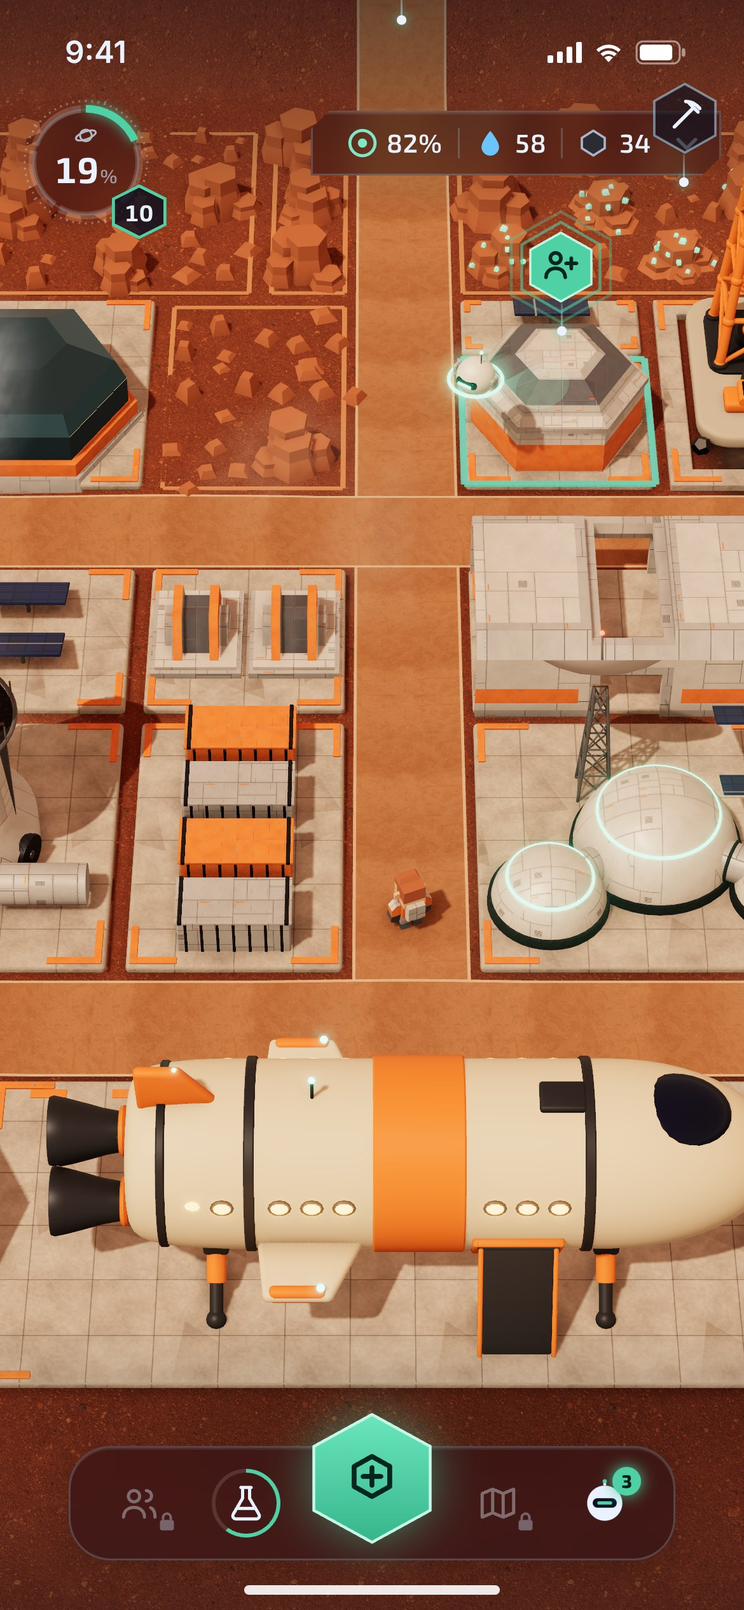
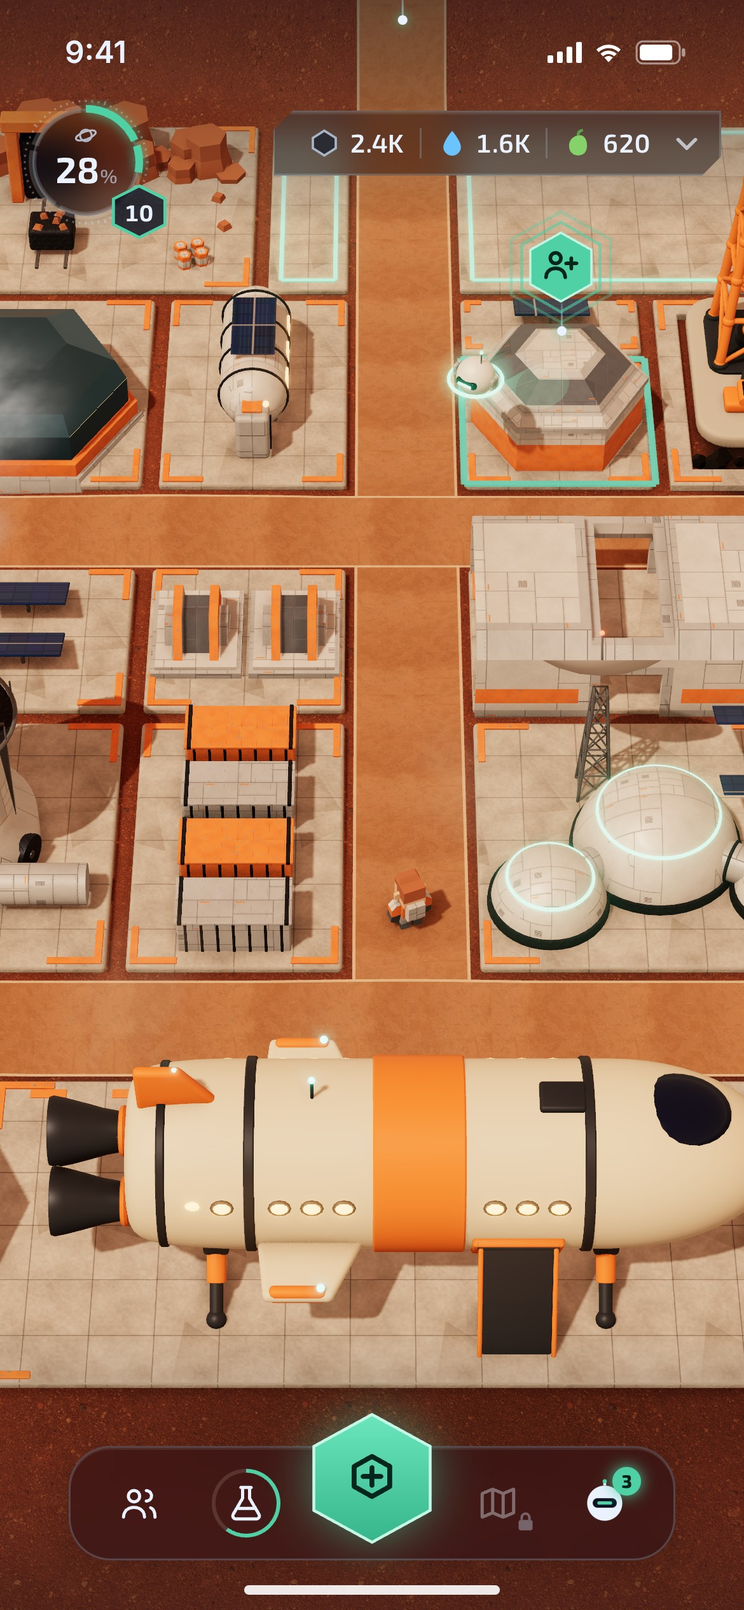
Bring the mockup frames in line with the levels
Cartoon level 3: the quarry becomes a mine (rock hill, timbered tunnel,
rails and a cart of stone). Old mockup frames 01-07 re-rendered with the
HUD in English and level-10 content: atmosphere 28%, mine, kitchen and
silicon furnace instead of rubble, greenhouse in the build menu, one
worker on the drill and upgrades costing time, 7/10 sketches at level 78.
New frames 06 and 07 replace the old ones in the game-flow-concept doc.

Claude-Session: https://claude.ai/code/session_01HQgMkiyb5bvwSnLxV2QWWo

diff --git a/mockup/index.html b/mockup/index.html
@@ -1,5 +1,5 @@
 <!doctype html>
-<html lang="bg">
+<html lang="en">
 <head>
 <meta charset="utf-8">
 <meta name="viewport" content="width=390, initial-scale=1">
@@ -152,8 +152,8 @@ function hud() {
   const a = window.__anchors, st = window.__state, L = st.late, panel = st.panel;
   let h = `<div class="shade"></div>${panel ? '' : '<div class="shade b"></div>'}`;
   h += `<div class="status"><span>9:41</span><span class="r"><svg width="18" height="11" viewBox="0 0 18 11" fill="#fff"><rect x="0" y="7" width="3" height="4" rx=".8"/><rect x="5" y="5" width="3" height="6" rx=".8"/><rect x="10" y="2.5" width="3" height="8.5" rx=".8"/><rect x="15" y="0" width="3" height="11" rx=".8"/></svg><svg width="16" height="11" viewBox="0 0 16 12"><path d="M8 11.5 5.6 9a3.4 3.4 0 0 1 4.8 0zM3.4 6.8a6.6 6.6 0 0 1 9.2 0l-1.4 1.4a4.6 4.6 0 0 0-6.4 0zM1 4.4a10 10 0 0 1 14 0l-1.4 1.4a8 8 0 0 0-11.2 0z" fill="#fff"/></svg><svg width="27" height="13" viewBox="0 0 27 13"><rect x=".7" y=".7" width="22.6" height="11.6" rx="3.4" fill="none" stroke="#fff" stroke-opacity=".5"/><rect x="2.4" y="2.4" width="17" height="8.2" rx="1.8" fill="#fff"/><rect x="24.4" y="4.3" width="1.8" height="4.4" rx=".9" fill="#fff" fill-opacity=".5"/></svg></span></div>`;
-  h += gauge(L ? 90 : 19, L) + levelHex(L ? 78 : 10);
-  const items = L ? [['food', '18.4K'], ['steel', '6.3K'], ['crystal', '412']] : [['o2', '82%'], ['water', '58'], ['carbon', '34']];
+  h += gauge(L ? 90 : 28, L) + levelHex(L ? 78 : 10);
+  const items = L ? [['food', '18.4K'], ['steel', '6.3K'], ['crystal', '412']] : [['carbon', '2.4K'], ['water', '1.6K'], ['food', '620']];
   h += `<div class="res glass cham">${items.map(([k, v]) => `<div class="it">${R[k]}${v}</div>`).join('')}<div class="chev">${I.chev}</div></div>`;
   if (L) h += `<div class="side glass">${I.moon}</div>`;
   if (!panel) {
@@ -161,64 +161,67 @@ function hud() {
       h += pinAt(a.drill, hexPin(R.carbon));
       h += pinAt(a.water, hexPin(R.water));
       h += pinAt(a.hab, hexPin(R.wake, { fill: '#4fd1a5', stroke: '#bff5e2', glow: true }));
-      h += pinAt(a.zone, hexPin(I.lock.replace('width="11" height="11"', 'width="14" height="14"')), '20%');
-      h += pinAt(a.rubble, hexPin(S('<path d="M14.5 4.5l5 5M17 7 6 18"/><path d="M12.5 3.5c3 0 6 1.5 8 4"/>', '#eaf2ff', 2)));
+      h += pinAt(a.zone, hexPin(I.lock.replace('width="11" height="11"', 'width="14" height="14"')), 'RESEARCH');
       h += pinAt(a.empty, hexPin(S('<path d="M12 6v12M6 12h12"/>', '#4fd1a5', 2.4), { stroke: 'rgba(79,209,165,.85)' }));
     } else {
-      h += pinAt(a.ship, `<div style="position:relative;width:40px;height:40px;display:grid;place-items:center"><svg width="40" height="40" viewBox="0 0 40 40" style="position:absolute"><circle cx="20" cy="20" r="18" fill="rgba(8,14,30,.62)" stroke="rgba(170,225,255,.3)" stroke-width="1"/><circle cx="20" cy="20" r="15" fill="none" stroke="rgba(255,255,255,.15)" stroke-width="3"/><circle cx="20" cy="20" r="15" fill="none" stroke="#4fd1a5" stroke-width="3" stroke-dasharray="${0.8 * 94.2} 94.2" transform="rotate(-90 20 20)"/></svg><div style="position:relative">${R.ship}</div></div>`, '8/10');
+      h += pinAt(a.ship, `<div style="position:relative;width:40px;height:40px;display:grid;place-items:center"><svg width="40" height="40" viewBox="0 0 40 40" style="position:absolute"><circle cx="20" cy="20" r="18" fill="rgba(8,14,30,.62)" stroke="rgba(170,225,255,.3)" stroke-width="1"/><circle cx="20" cy="20" r="15" fill="none" stroke="rgba(255,255,255,.15)" stroke-width="3"/><circle cx="20" cy="20" r="15" fill="none" stroke="#4fd1a5" stroke-width="3" stroke-dasharray="${0.8 * 94.2} 94.2" transform="rotate(-90 20 20)"/></svg><div style="position:relative">${R.ship}</div></div>`, '7/10');
       h += pinAt(a.capsule, hexPin(R.chute, { glow: true }));
       h += pinAt(a.shuttle, hexPin(R.crystal));
       h += pinAt(a.field, hexPin(R.food));
     }
     const dockB = (ico, cls = '', extra = '') => `<div class="b ${cls}">${ico}${extra}</div>`;
-    h += `<div class="dock glass">${dockB(I.people, L ? '' : 'off', L ? '' : `<span class="lock">${I.lock}</span>`)}${dockB(`<svg width="44" height="44" viewBox="0 0 44 44" style="position:absolute"><circle cx="22" cy="22" r="17" fill="none" stroke="rgba(255,255,255,.12)" stroke-width="2"/><circle cx="22" cy="22" r="17" fill="none" stroke="#4fd1a5" stroke-width="2" stroke-dasharray="${0.6 * 106.8} 106.8" transform="rotate(-90 22 22)"/></svg>` + I.research)}<div class="build"><svg class="bg" width="64" height="70" viewBox="0 0 64 70"><defs><linearGradient id="bg1" x1="0" y1="0" x2="0" y2="1"><stop offset="0" stop-color="#6be6bd"/><stop offset="1" stop-color="#36b58b"/></linearGradient></defs><path d="${hexPath(64, 70, 1.5)}" fill="url(#bg1)" stroke="#c6f7e6" stroke-width="1.5"/></svg><div style="position:relative">${I.build.replace('width="22" height="22"', 'width="28" height="28"')}</div></div>${dockB(I.map, L ? '' : 'off', L ? '' : `<span class="lock">${I.lock}</span>`)}${dockB(I.echo, '', '<span class="dot">3</span>')}</div>`;
+    h += `<div class="dock glass">${dockB(I.people)}${dockB(`<svg width="44" height="44" viewBox="0 0 44 44" style="position:absolute"><circle cx="22" cy="22" r="17" fill="none" stroke="rgba(255,255,255,.12)" stroke-width="2"/><circle cx="22" cy="22" r="17" fill="none" stroke="#4fd1a5" stroke-width="2" stroke-dasharray="${0.6 * 106.8} 106.8" transform="rotate(-90 22 22)"/></svg>` + I.research)}<div class="build"><svg class="bg" width="64" height="70" viewBox="0 0 64 70"><defs><linearGradient id="bg1" x1="0" y1="0" x2="0" y2="1"><stop offset="0" stop-color="#6be6bd"/><stop offset="1" stop-color="#36b58b"/></linearGradient></defs><path d="${hexPath(64, 70, 1.5)}" fill="url(#bg1)" stroke="#c6f7e6" stroke-width="1.5"/></svg><div style="position:relative">${I.build.replace('width="22" height="22"', 'width="28" height="28"')}</div></div>${dockB(I.map, L ? '' : 'off', L ? '' : `<span class="lock">${I.lock}</span>`)}${dockB(I.echo, '', '<span class="dot">3</span>')}</div>`;
   } else if (st.place) {
-    // a building chosen: its spot glows, ЕХО points at it, one tap confirms
-    h += `<div class="hint glass cham">${S('<path d="M12 21s-6-5.6-6-10a6 6 0 0 1 12 0c0 4.4-6 10-6 10z"/><circle cx="12" cy="11" r="2.2"/>', '#4fd1a5', 2)}Натиснете <b>светещото място</b></div>`;
+    // a building chosen: its spot glows, ECHO points at it, one tap confirms
+    h += `<div class="hint glass cham">${S('<path d="M12 21s-6-5.6-6-10a6 6 0 0 1 12 0c0 4.4-6 10-6 10z"/><circle cx="12" cy="11" r="2.2"/>', '#4fd1a5', 2)}Tap the <b>glowing spot</b></div>`;
     const bx = Math.min(Math.max(a.place.x, 104), 390 - 104);
-    h += `<div class="bubble" style="left:${bx.toFixed(1)}px;top:${a.place.y.toFixed(1)}px;--tx:${(a.place.x - bx + 88).toFixed(1)}px"><div class="who">ЕХО</div>Тук е мястото за модула. Натиснете го.</div>`;
-    h += `<div class="placebar"><div class="row">${hexPin(S('<path d="M4 18V11a8 8 0 0 1 16 0v7z"/><path d="M10 18v-4h4v4"/><path d="M4 18h16"/>'), { w: 44, h: 48, fill: 'rgba(79,209,165,.25)', stroke: '#4fd1a5' })}<div><h4>Жилищен модул</h4><p>2×2 · 5 места · строи се за 0:45</p></div></div>
-      <div class="btns"><div class="cancel">Отказ</div><div class="go"><b>СТРОЙ ТУК</b><div class="cost"><span>${R.carbon}30</span><span>${R.stone}20</span></div></div></div></div>`;
+    h += `<div class="bubble" style="left:${bx.toFixed(1)}px;top:${a.place.y.toFixed(1)}px;--tx:${(a.place.x - bx + 88).toFixed(1)}px"><div class="who">ECHO</div>This is the spot for the greenhouse. Tap it.</div>`;
+    h += `<div class="placebar"><div class="row">${hexPin(S('<path d="M3 18a9 9 0 0 1 18 0z"/><path d="M12 9v9M7.5 11.5 9 18M16.5 11.5 15 18"/>'), { w: 44, h: 48, fill: 'rgba(79,209,165,.25)', stroke: '#4fd1a5' })}<div><h4>Greenhouse</h4><p>3×2 · food and atmosphere · builds in 2:00</p></div></div>
+      <div class="btns"><div class="cancel">Cancel</div><div class="go"><b>BUILD HERE</b><div class="cost"><span>${R.carbon}900</span><span>${R.stone}400</span></div></div></div></div>`;
   } else if (st.build) {
-    // tapped: an empty 2x3 plot, the build menu lists what fits and what comes later
+    // the Build button: the menu lists what can be built at level 10 and what comes later
     const small = s => s.replace('width="16" height="16"', 'width="13" height="13"');
     const B = {
       hab: S('<path d="M4 18V11a8 8 0 0 1 16 0v7z"/><path d="M10 18v-4h4v4"/><path d="M4 18h16"/>'),
       store: S('<path d="M4 8l8-4 8 4v9l-8 4-8-4z"/><path d="M4 8l8 4 8-4M12 12v9"/>'),
       plant: S('<path d="M12 20V10"/><path d="M12 13c-4 0-6-3-6-7 4 0 6 3 6 7zM12 11c0-4 2-6 6-6 0 4-2 6-6 6z"/>'),
       air: S('<path d="M4 9h11a3 3 0 1 0-3-3M4 13h14a3 3 0 1 1-3 3M4 17h7"/>'),
-      quarry: S('<path d="M3 19l5-9 4 5 3-4 6 8z"/><path d="M14 4l2 3"/>'),
+      green: S('<path d="M3 18a9 9 0 0 1 18 0z"/><path d="M12 9v9M7.5 11.5 9 18M16.5 11.5 15 18"/>'),
+      batt: S('<rect x="4" y="7" width="15" height="10" rx="1.5"/><path d="M19 10.5h1.5v3H19M8 10v4M11 10v4"/>'),
+      animal: S('<circle cx="7" cy="9" r="1.8"/><circle cx="12" cy="6.5" r="1.8"/><circle cx="17" cy="9" r="1.8"/><path d="M12 12c-3 0-5 3-5 5 0 1.6 1.6 2 5 2s5-.4 5-2c0-2-2-5-5-5z"/>'),
+      wind: S('<path d="M12 12v9M12 12l-1-8M12 12l7 4M12 12l-7 4"/><circle cx="12" cy="12" r="1.2"/>'),
+      shuttle: S('<path d="M12 3c3 3 4 7 4 11l-4 3-4-3c0-4 1-8 4-11z"/><path d="M8 14l-3 3v2l3-1M16 14l3 3v2l-3-1"/>'),
       solar: S('<path d="M4 9h16l-2 8H6z"/><path d="M9 9l-1 8M15 9l1 8M5 13h14"/><path d="M12 17v3"/>'),
     };
     const card = (ico, name, size, body, opts = {}) => `<div class="card ${opts.sel ? 'sel' : ''} ${opts.dim ? 'dim' : ''}">${opts.tag ? `<span class="tag">${opts.tag}</span>` : ''}<div class="ic"><svg class="bg" width="38" height="42" viewBox="0 0 38 42"><path d="${hexPath(38, 42, 1.2)}" fill="${opts.sel ? 'rgba(79,209,165,.25)' : 'rgba(8,14,30,.5)'}" stroke="${opts.sel ? '#4fd1a5' : 'rgba(170,225,255,.45)'}" stroke-width="1.2"/></svg><div style="position:relative">${ico}</div></div><div><h4>${name}</h4><span class="sz">${size}</span>${body}</div></div>`;
     const cost = (c, s, t) => `<div class="meta"><span>${small(R.carbon)}${c}</span><span>${small(R.stone)}${s}</span><span style="color:var(--muted)">${t}</span></div>`;
     const note = t => `<div class="note">${t}</div>`;
     h += `<div class="sheet tall"><div class="grab"></div>
-      <div class="sh-head">${hexPin(S('<path d="M12 6v12M6 12h12"/>', '#4fd1a5', 2.4), { w: 44, h: 48, stroke: 'rgba(79,209,165,.85)' })}<div><h3>Строеж</h3><p>Изберете сграда · ЕХО ще покаже мястото ѝ</p></div><div class="x">${I.close}</div></div>
-      <div class="tabs"><span class="on">Всички</span><span>Добив</span><span>Живот</span><span>Домове</span><span>Енергия</span></div>
+      <div class="sh-head">${hexPin(S('<path d="M12 6v12M6 12h12"/>', '#4fd1a5', 2.4), { w: 44, h: 48, stroke: 'rgba(79,209,165,.85)' })}<div><h3>Build</h3><p>Pick a building · ECHO shows its spot</p></div><div class="x">${I.close}</div></div>
+      <div class="tabs"><span class="on">All</span><span>Mining</span><span>Life</span><span>Homes</span><span>Energy</span></div>
       <div class="cards">
-        ${card(B.hab, 'Жилищен модул', '2×2', cost(30, 20, '0:45'), { sel: true, tag: 'ЕХО' })}
-        ${card(B.store, 'Склад', '3×2', cost(20, 30, '0:30'))}
-        ${card(B.plant, 'Лаборатория за растения', '3×2', note(`${I.lock} от атм. 20%`), { dim: true })}
-        ${card(B.solar, 'Слънчеви панели', '2×1', note(`${I.lock} в глава 2`), { dim: true })}
-        ${card(B.air, 'Атмосферен процесор', '3×3', note('Няма място 3×3'), { dim: true })}
-        ${card(B.quarry, 'Кариера', '3×2', note('Мястото е под отломки'), { dim: true })}
+        ${card(B.green, 'Greenhouse', '3×2', cost('900', '400', '2:00'), { sel: true, tag: 'ECHO' })}
+        ${card(B.solar, 'Solar panels', '2×1', note('60 silicon · 120 carbon · 0:40'))}
+        ${card(B.batt, 'Battery bank', '2×1', note('40 silicon · 80 carbon · 0:50'))}
+        ${card(B.animal, 'Animal lab', '3×3', note(`${I.lock} chapter 4`), { dim: true })}
+        ${card(B.wind, 'Wind turbine', '1×1', note(`${I.lock} chapter 5`), { dim: true })}
+        ${card(B.shuttle, 'Shuttle pad', '3×3', note(`${I.lock} level 60`), { dim: true })}
       </div>
-      <div class="up"><div class="go"><b>КЪМ МЯСТОТО</b><div class="cost"><span>${R.carbon}30</span><span>${R.stone}20</span></div></div></div>
+      <div class="up"><div class="go"><b>TO THE SPOT</b><div class="cost"><span>${R.carbon}900</span><span>${R.stone}400</span></div></div></div>
     </div>`;
   } else {
     // tapped: the carbon drill
     const seg = n => Array.from({ length: 10 }, (_, i) => `<i class="${i < n ? 'on' : ''}"></i>`).join('');
     const slot = (inner, locked) => `<div class="slot"><svg width="46" height="50" viewBox="0 0 46 50" style="position:absolute"><path d="${hexPath(46, 50, 1.5)}" fill="rgba(255,255,255,.04)" stroke="rgba(170,225,255,.4)" stroke-width="1.2" stroke-dasharray="4 3"/></svg><div style="position:relative;opacity:${locked ? .5 : 1}">${inner}</div></div>`;
     h += `<div class="sheet"><div class="grab"></div>
-      <div class="sh-head">${hexPin(R.carbon.replace('width="16" height="16"', 'width="20" height="20"'), { w: 44, h: 48 })}<div><h3>Карбонова сонда</h3><p>Ниво 12 · Дъното на каньона</p></div><div class="x">${I.close}</div></div>
+      <div class="sh-head">${hexPin(R.carbon.replace('width="16" height="16"', 'width="20" height="20"'), { w: 44, h: 48 })}<div><h3>Carbon drill</h3><p>Level 10 · Canyon floor</p></div><div class="x">${I.close}</div></div>
       <div class="stats">
-        <div class="stat"><div class="k">Добив</div><div class="v">18<span style="font-size:12px;color:var(--muted);font-weight:600">/мин</span><em>+2</em></div><div class="bar"><i style="width:60%"></i></div></div>
-        <div class="stat"><div class="k">Склад</div><div class="v">34<span style="font-size:12px;color:var(--muted);font-weight:600"> /120</span></div><div class="bar"><i style="width:28%"></i></div></div>
-        <div class="stat"><div class="k">Скок ×2</div><div class="v">8<span style="font-size:12px;color:var(--muted);font-weight:600"> нива</span></div><div class="segs">${seg(2)}</div></div>
+        <div class="stat"><div class="k">Output</div><div class="v">18<span style="font-size:12px;color:var(--muted);font-weight:600">/min</span><em>+2</em></div><div class="bar"><i style="width:60%"></i></div></div>
+        <div class="stat"><div class="k">Ready</div><div class="v">34<span style="font-size:12px;color:var(--muted);font-weight:600"> /120</span></div><div class="bar"><i style="width:28%"></i></div></div>
+        <div class="stat"><div class="k">Worker</div><div class="v">1<span style="font-size:12px;color:var(--muted);font-weight:600"> /1</span></div><div class="bar"><i style="width:100%"></i></div></div>
       </div>
-      <div class="crew">${slot(I.people, true)}${slot(I.people, true)}${slot(`<svg width="22" height="22" viewBox="0 0 24 24" fill="none" stroke="#eaf2ff" stroke-width="1.8"><path d="M4 20l6-14 4 7 2-3 4 10z"/></svg>`, true)}<p>Работници и геолог<br>от глава 2</p></div>
-      <div class="up"><div class="mult"><span class="on">×1</span><span>×10</span><span>MAX</span></div><div class="go"><b>ПОДОБРИ</b><div class="cost"><span>${R.carbon}40</span><span>${R.stone}12</span></div></div></div>
+      <div class="crew">${slot(I.people, false)}<p>The worker collects the carbon<br>and keeps the drill running while you're away</p></div>
+      <div class="up"><div class="mult"><span class="on">${S('<circle cx="12" cy="12" r="8"/><path d="M12 8v4l3 2"/>', '#eaf2ff', 2).replace('width="22" height="22"', 'width="15" height="15"')}&nbsp;12:00</span></div><div class="go"><b>UPGRADE</b><div class="cost"><span>${R.carbon}1.2K</span><span>${R.stone}400</span></div></div></div>
     </div>`;
   }
   if (!panel) h += '<div class="home"></div>'; else h += '<div class="home" style="z-index:2"></div>';

diff --git a/mockup/src/cartoon.js b/mockup/src/cartoon.js
@@ -90,7 +90,7 @@ const P = {
   ark: R(-12, 9, 23, 13.5), cargo: R(10.5, 16.5, 23, 13.5),
   pump: cell(0, 0), proc: cell(1, 0), drill: cell(2, 0),
   research: cell(0, 1), geo: cell(1, 1), veg: cell(2, 1),
-  dome: cell(0, 2), kitchen: cell(1, 2), quarry: cell(2, 2),
+  dome: cell(0, 2), kitchen: cell(1, 2), mine: cell(2, 2),
 };
 const padMat = flat(C.pad), edgeMat = flat(C.padEdge);
 function pad(r, kind = 'built') {
@@ -146,15 +146,24 @@ function kitchen() {
   for (const z of [2.2, 3.5]) { g.add(at(rb(3.6, 0.15, 0.8, M.wood, 0.06), -0.6, 0.95, z)); for (const s of [-0.55, 0.55]) g.add(at(rb(3.6, 0.12, 0.3, M.wood, 0.05), -0.6, 0.55, z + s)); }
   return shadowAll(g);
 }
-function quarry() {
+function mine() {
+  // the mine: a rock hill with a timbered tunnel, rails and a cart of stone (level 2: one worker, stone only)
   const g = new THREE.Group();
-  for (let i = 0; i < 6; i++) { const m = new THREE.Mesh(rockGeo, flat(i % 2 ? C.rock : C.rock2)); const s = 1.1 + rnd() * 0.8; m.scale.set(s, s * 0.8, s); m.position.set(1.6 + rnd() * 2.2, s * 0.4, -2.2 + rnd() * 2.5); m.castShadow = true; g.add(m); }
-  for (let i = 0; i < 6; i++) g.add(at(rb(0.9, 0.7, 0.9, flat(0xd9b892), 0.15), -2.6 + (i % 3) * 1.0, 0.65 + Math.floor(i / 3) * 0.72, 2.0));
-  g.add(at(rb(2.0, 1.6, 1.8, M.hull, 0.35), -2.2, 1.1, -1.4));
-  const mast = new THREE.Mesh(new THREE.CylinderGeometry(0.16, 0.2, 4.2, 12), M.orange); mast.position.set(-0.6, 2.4, -0.4); g.add(mast);
-  const arm = rb(4.4, 0.28, 0.28, M.orange, 0.1); arm.position.set(1.0, 4.4, -0.4); arm.rotation.z = -0.25; g.add(arm);
-  const hook = new THREE.Mesh(new THREE.CylinderGeometry(0.03, 0.03, 1.8, 6), M.metal); hook.position.set(2.9, 3.0, -0.4); g.add(hook);
-  g.add(at(rb(0.7, 0.5, 0.7, flat(0xd9b892), 0.12), 2.9, 1.95, -0.4));
+  const hill = [[-3.0, -3.0, 2.1], [-1.0, -3.4, 2.5], [1.4, -3.3, 2.3], [3.3, -2.6, 1.8], [-3.9, -1.4, 1.3], [0.4, -4.2, 1.9], [3.8, -0.9, 1.2]];
+  for (const [x, z, s] of hill) { const m = new THREE.Mesh(rockGeo, flat(rnd() < 0.5 ? C.rock : C.rock2)); m.scale.set(s * 1.15, s * 0.85, s); m.position.set(x, s * 0.55, z); m.rotation.y = rnd() * 6; g.add(m); }
+  const px = -0.8, pz = -0.7;
+  g.add(at(rb(1.9, 2.1, 1.2, flat(0x3a2a33), 0.25), px, 1.05, pz));
+  for (const dx of [-1.15, 1.15]) g.add(at(rb(0.34, 2.5, 0.4, M.wood, 0.08), px + dx, 1.25, pz + 0.55));
+  g.add(at(rb(2.8, 0.36, 0.5, M.wood, 0.08), px, 2.6, pz + 0.55));
+  g.add(at(rb(2.9, 0.16, 0.6, M.orange, 0.06), px, 2.86, pz + 0.55));
+  const lamp = new THREE.Mesh(new THREE.SphereGeometry(0.2, 12, 10), M.warm); lamp.position.set(px, 2.25, pz + 0.85); g.add(lamp);
+  for (const dx of [-0.42, 0.42]) g.add(at(rb(0.1, 0.1, 2.8, M.steel, 0.03), px + dx, 0.16, pz + 2.0));
+  for (let i = 0; i < 5; i++) g.add(at(rb(1.25, 0.1, 0.24, M.wood, 0.03), px, 0.08, pz + 0.8 + i * 0.62));
+  const cz = pz + 2.2;
+  g.add(at(rb(1.3, 0.75, 1.0, M.orange, 0.14), px, 0.72, cz));
+  for (const dx of [-0.5, 0.5]) for (const dz of [-0.32, 0.32]) { const w = new THREE.Mesh(new THREE.CylinderGeometry(0.2, 0.2, 0.14, 14), M.rubber); w.rotation.z = Math.PI / 2; w.position.set(px + dx, 0.3, cz + dz); g.add(w); }
+  for (const [dx, dz, s] of [[-0.28, -0.12, 0.34], [0.22, 0.1, 0.3], [0.02, -0.02, 0.38]]) { const r = new THREE.Mesh(rockGeo, flat(0xd9b892)); r.scale.setScalar(s); r.position.set(px + dx, 1.18, cz + dz); g.add(r); }
+  for (let i = 0; i < 6; i++) g.add(at(rb(0.9, 0.7, 0.9, flat(0xd9b892), 0.15), 1.4 + (i % 3) * 1.0, 0.4 + Math.floor(i / 3) * 0.72, 1.2));
   return shadowAll(g);
 }
 function homeDome() {
@@ -209,7 +218,7 @@ if (!L3) {
   add(shadowAll(K.echoBot()), P.research.cx + 4.6, 5.4, P.research.cz + 3.0, 0.8, 1.25);
   halo(P.research.cx + 4.6, 5.4, P.research.cz + 3.0, 2.6, 0x6ff2c4, 0.45);
   // the future spots of level 2 and 3 are only outlined; the rest of the canyon is under dust
-  for (const k of ['dome', 'kitchen', 'quarry']) pad(P[k], 'future');
+  for (const k of ['dome', 'kitchen', 'mine']) pad(P[k], 'future');
   add(shadowAll(K.astronaut(1.7)), -1.5, 0.4, 12.2, 0.4);
   A('rubble', P.research.cx, 3.2, P.research.cz); A('echo', P.research.cx + 4.6, 6.6, P.research.cz + 3.0);
 } else {
@@ -219,7 +228,7 @@ if (!L3) {
   halo(P.dome.cx, 2, P.dome.cz, 9, 0xffd58a, 0.22);
   pad(P.kitchen); add(kitchen(), P.kitchen.cx + 0.4, 0.4, P.kitchen.cz, 0, 1.0);
   dust(P.kitchen.cx + 1.4, 6.8, P.kitchen.cz - 2.0, 3, 0xffffff, 0.6); dust(P.kitchen.cx + 1.8, 8.2, P.kitchen.cz - 2.6, 4.2, 0xffffff, 0.35);
-  pad(P.quarry); add(quarry(), P.quarry.cx, 0.4, P.quarry.cz, 0, 1.0);
+  pad(P.mine); add(mine(), P.mine.cx, 0.4, P.mine.cz, 0, 1.0);
   // workers by their buildings, the cook at the kitchen door, the Commander by the Ark
   const suits = [0x6fb7ff, 0x9a7cff, 0x33c5a2];
   add(colonist(0xffffff, suits[0]), P.drill.cx - 3.6, 0.4, P.drill.cz + 3.4, 0.6, 1.6);
@@ -232,7 +241,7 @@ if (!L3) {
   halo(P.proc.cx - 3.6, 6.2, P.proc.cz + 3.4, 2.6, 0x6ff2c4, 0.45);
   const ring = new THREE.Mesh(new THREE.TorusGeometry(5.0, 0.16, 10, 64), glow(0x33d1a8, 1.4)); ring.rotation.x = Math.PI / 2; ring.position.set(P.proc.cx, 0.55, P.proc.cz); scene.add(ring);
   A('w-drill', P.drill.cx, 7.4, P.drill.cz); A('w-pump', P.pump.cx, 5.6, P.pump.cz); A('w-veg', P.veg.cx, 4.4, P.veg.cz);
-  A('w-proc', P.proc.cx, 9.6, P.proc.cz); A('w-quarry', P.quarry.cx, 6.2, P.quarry.cz); A('cook', P.kitchen.cx, 6.4, P.kitchen.cz);
+  A('w-proc', P.proc.cx, 9.6, P.proc.cz); A('w-mine', P.mine.cx, 6.2, P.mine.cz); A('cook', P.kitchen.cx, 6.4, P.kitchen.cz);
   A('dome', P.dome.cx + 2.4, 4.2, P.dome.cz + 2.6); A('echo', P.proc.cx - 3.6, 7.4, P.proc.cz + 3.4);
 }
 // the locked part of the canyon lies under dust in both levels

diff --git a/mockup/src/main.js b/mockup/src/main.js
@@ -219,9 +219,24 @@ function zone1(late) {
   pad(L.drill, 'deposit'); at(smoothModel('carbon-drill-v1'), L.drill, 1.1, 0, 0, -0.9);
   pad(L.hab); at(kit('hangar_roundB', 1.7), L.hab, 1, Math.PI);
   solarArray(L.solarC);
-  if (!late) { pad(L.free, 'empty'); L.rub5.crystals = true; for (const k of ['rub1', 'rub2', 'rub3', 'rub4', 'rub5']) pad(L[k], 'rubble'); }
+  // level 10 by docs/levels.md: no rubble left; the silicon furnace, the common kitchen and the mine stand on the old rubble plots
+  if (!late) { pad(L.free, 'empty'); pad(L.rub4, 'empty'); pad(L.rub5, 'empty'); pad(L.rub1); at(K.smelter(), L.rub1, 0.78, Math.PI); pad(L.rub2); at(K.habModule(1), L.rub2, 1, Math.PI / 2); mine(L.rub3); }
   else { houses(L.free); houses(L.rub1); houses(L.rub2); houses(L.rub3); pad(L.rub4); houses(L.rub5); }
   return L;
+}
+function mine(r) {
+  // the mine: a rock hill with a timbered tunnel, rails and a cart of stone
+  pad(r);
+  const y = Wd.gy(r.cx, r.cz) + 0.3, dark = new THREE.MeshStandardMaterial({ color: 0x1d1820, roughness: 0.9 });
+  for (const [dx, dz, n, sc] of [[-3.6, -2.4, 'rock_largeA', 3.4], [-1.2, -2.9, 'rock_largeB', 3.8], [1.6, -2.7, 'rock_largeA', 3.6], [4.0, -2.1, 'rock_largeB', 3.0], [-4.7, -0.3, 'rocks_smallA', 2.6], [4.7, 0.3, 'rocks_smallB', 2.6]]) put(kit(n, sc), r.cx + dx, r.cz + dz, T.rng() * 6.28);
+  const px = r.cx - 0.6, pz = r.cz - 0.9;
+  K.rbox(scene, 2.2, 2.4, 1.4, dark, px, y + 1.2, pz, { r: 0.2 });
+  for (const dx of [-1.3, 1.3]) K.rbox(scene, 0.4, 2.9, 0.45, K.M.orange, px + dx, y + 1.45, pz + 0.6, { r: 0.06 });
+  K.rbox(scene, 3.2, 0.45, 0.6, K.M.orange, px, y + 3.0, pz + 0.6, { r: 0.06 });
+  for (const dx of [-0.45, 0.45]) K.rbox(scene, 0.12, 0.12, 3.6, K.M.steel, px + dx, y + 0.08, pz + 2.4, { r: 0.03 });
+  K.rbox(scene, 1.4, 0.8, 1.1, K.M.metal, px, y + 0.6, pz + 3.0, { r: 0.12 });
+  put(kit('rocks_smallA', 1.2), px, pz + 3.0, 0, 1, y + 1.0);
+  put(kit('barrels', 2.2), r.cx + 3.8, r.cz + 2.8, 0.3);
 }
 function zoneStreets(late) {
   // avenue up the middle from the Ark to the shipyard, cross streets between the blocks
@@ -249,10 +264,10 @@ function buildEarly() {
   else if (BUILD) beam.visible = false;
   else if (PLACE) {
     selectFrame(L.free);
-    // the chosen building stands on its spot as a see-through ghost until "Строй тук"
+    // the chosen building (the greenhouse) stands on its spot as a see-through ghost until "Build here"
     const ghostMat = new THREE.MeshStandardMaterial({ color: 0x4fd1a5, emissive: 0x4fd1a5, emissiveIntensity: 0.9, transparent: true, opacity: 0.6, depthWrite: false });
-    const ghost = kit('hangar_roundB', 1.7); ghost.traverse(o => { if (o.isMesh) { o.material = ghostMat; o.castShadow = false; } });
-    at(ghost, L.free, 1, Math.PI);
+    const ghost = K.greenhouse(7); ghost.traverse(o => { if (o.isMesh) { o.material = ghostMat; o.castShadow = false; } });
+    at(ghost, L.free, 1, Math.PI / 2);
     halo(L.free.cx, Wd.gy(0, L.free.cz) + 1.2, L.free.cz, 9, 0x6ff2c4, 0.35);
   } else selectFrame(L.hab);
   P('place', L.free.cx, Wd.gy(0, L.free.cz) + 6.5, L.free.cz);

diff --git a/mockup/cartoon.html b/mockup/cartoon.html
@@ -112,7 +112,7 @@ function hud() {
     h += bubble(a.echo, 'Something is buried here. Tap the rubble!');
   } else {
     for (const k of ['w-drill', 'w-pump', 'w-veg']) h += badge(a[k], `${ICON.person()}<span class="ok">${ICON.check}</span>`);
-    h += badge(a['w-quarry'], ICON.plus, '', 'empty');
+    h += badge(a['w-mine'], ICON.plus, '', 'empty');
     h += badge(a['w-proc'], ICON.plus, 'free slot', 'empty');
     h += badge(a.cook, ICON.chef, 'cook');
     h += badge(a.dome, ICON.bed, '4/4 beds');

diff --git a/mockup/README.md b/mockup/README.md
@@ -6,17 +6,17 @@
 
 | Файл | Какво показва |
 | --- | --- |
-| `01-nivo-10.jpg` | Ниво 10, глава 1, атмосфера 19%: първите сгради около Ковчега, свободен парцел, отломки, следващата зона под прах |
+| `01-nivo-10.jpg` | Ниво 10, глава 1, атмосфера 28%: сградите около Ковчега, жилищният купол с ново легло (колонист за събуждане), мината, кухнята и силициевата пещ, празни парцели, следващата зона под прах (отваря се с рисърч) |
 | `02-nivo-10-otblizo.jpg` | Същото, приближено |
-| `03-natisnata-sonda.jpg` | Натисната карбонова сонда: панелът, който се отваря отдолу |
-| `04-atmosfera-90.jpg` | Атмосфера 90%, глава 8: град, ферми, совалка, корабостроителница |
+| `03-natisnata-sonda.jpg` | Натисната карбонова сонда, ниво 10: добив, готово за прибиране, един работник; подобрението струва ресурси и време |
+| `04-atmosfera-90.jpg` | Атмосфера 90%, ниво 78, глава 8: град, ферми, совалка, корабостроителница, 7 от 10 скици |
 | `05-atmosfera-90-otblizo.jpg` | Същото, приближено |
-| `06-stroezh-menu.jpg` | Ниво 10: натиснат бутонът „Строй“, отворено е менюто за строеж; фабрикатор няма (решено на 02.11.2026) |
-| `07-izbor-na-miasto.jpg` | Избран е Жилищен модул: мястото му свети с прозрачната сграда, ЕХО го посочва, долу „Строй тук“ |
-| `cartoon-01-nivo-1.jpg` | Новата приятелска визия (cartoon.html), с текстове на английски: ниво 1, обучение; ECHO показва затрупаната рисърч сграда |
-| `cartoon-02-nivo-3.jpg` | Новата визия: ниво 3, куполът с 4 легла, общата кухня с готвач, работниците и празно място при процесора |
+| `06-stroezh-menu.jpg` | Ниво 10: натиснат бутонът „Строй“; оранжерията, панелите и батериите се строят, лабораторията за животни, вятърната турбина и площадката за совалката са заключени |
+| `07-izbor-na-miasto.jpg` | Избрана е оранжерията: мястото ѝ свети с прозрачната сграда, ECHO го посочва, долу „Build here“ |
+| `cartoon-01-nivo-1.jpg` | Новата приятелска визия (cartoon.html): ниво 1, обучение; ECHO показва затрупаната рисърч сграда |
+| `cartoon-02-nivo-3.jpg` | Новата визия: ниво 3, куполът с 4 легла, общата кухня с готвач, мината, работниците и празно място при процесора |
 
-Кадрите 01–07 са направени преди docs/levels.md (03.11.2026) и в някои неща се разминават с него: по нивата атмосферата на ниво 10 е около 28%, а не 19%; сградата за колонистите е жилищният купол, не „Жилищен модул“; кариерата е мината. Кадър `cartoon-02-nivo-3.jpg` още показва модела на кариера на мястото на мината. При разлика важат нивата.
+Всички кадри следват docs/levels.md (обновени на 03.11.2026), а текстовете в тях са на английски. Числата за ресурсите, цените и времената са примерни. Атмосферата 90% на ниво 78 зависи от отворения въпрос дали +2% на ниво остава и след ниво 10.
 
 ## Какво е решено в макета
 

diff --git a/docs/notes.md b/docs/notes.md
@@ -1,4 +1,4 @@
-<!-- Синхронизирано с документа „Zerks-X6: бележки“ (https://claude.ai/artifact/8kvHeAVcx15sZRertKdhzx) при rev 52. -->
+<!-- Синхронизирано с документа „Zerks-X6: бележки“ (https://claude.ai/artifact/8kvHeAVcx15sZRertKdhzx) при rev 53. -->
 
 # Zerks-X6: бележки
 
@@ -113,6 +113,7 @@
 
 | Дата | Промяна | Статус |
 | --- | --- | --- |
+| 03.11.2026 | Жоро: кадрите на макета по нивата. Новата визия: на ниво 3 мината (скален хълм с вход, релси и вагонетка) вместо кариерата. Старият макет: кадрите 01–07 наново, с текстове на английски; на ниво 10 атмосфера 28%, мината, кухнята и силициевата пещ на мястото на отломките, менюто за строеж с оранжерията, сондата с един работник и подобрение срещу ресурси и време; 7 от 10 скици на ниво 78. Кадрите в документа „ход на играта по концепцията“ са сменени | Готово |
 | 03.11.2026 | Жоро: „актуализирай и качи“. Документите в Claude и визията са проверени (без промени от браузъра). В main е качена работата от 02–03.11.2026: нивата (docs/levels.md), новата визия, ходът по концепцията и всички документи, приведени по нивата | Готово |
 | 03.11.2026 | Жоро: нивата припокриват всичко. Приведени в линия с docs/levels.md: концепцията, ходът на играта (0.4) и Word файлът му, ходът по концепцията, бележките (задачи, решения), предаването, слайдовете на визията, бележка във файла за идеи (0.5) и в README на макета. По молба на Жоро са обновени и документите в Claude на същите линкове (бележки, концепция, ход на играта, ход по концепцията, предаване) и визията | Готово |
 | 03.11.2026 | Жоро: нивата 1–5 и правилата влизат в репото като логиката на играта: docs/levels.md и docs/Zerks-X6-levels.docx (версия 0.5). CLAUDE.md и бележките казват, че при противоречие важи този файл. Концепцията и документите за хода на играта още не са приведени в линия с него | Готово |

diff --git a/docs/game-flow-concept.md b/docs/game-flow-concept.md
@@ -1,4 +1,4 @@
-<!-- Синхронизирано с документа „Zerks-X6: ход на играта по концепцията“ (https://claude.ai/artifact/JjShfraRTRq3CH4FX62HVv) при rev 41. Двете схеми в документа са нарисувани; тук са описани с думи. -->
+<!-- Синхронизирано с документа „Zerks-X6: ход на играта по концепцията“ (https://claude.ai/artifact/JjShfraRTRq3CH4FX62HVv) при rev 43. Двете схеми в документа са нарисувани; тук са описани с думи. -->
 
 # Zerks-X6: ход на играта по концепцията
 
@@ -35,7 +35,7 @@
 | Сграда, за която няма свободно място | В менюто тя е сива с причината, например „Няма място 3×3“; ЕХО казва коя зона да се отключи |
 | Заключена сграда | Не се избира; катинарчето казва кога се отключва |
 
-Така изглежда на телефона, на ниво 10 (кадри от макета; цените и времената са примерни). Първо менюто след „Строй“, после мястото за избраната сграда: `mockup/screens/06-stroezh-menu.jpg` и `mockup/screens/07-izbor-na-miasto.jpg`. В тези кадри домът още се казва „Жилищен модул“; по нивата това е жилищният купол.
+Така изглежда на телефона, на ниво 10 (кадри от макета; цените и времената са примерни). Първо менюто след „Строй“, после мястото за избраната сграда: `mockup/screens/06-stroezh-menu.jpg` и `mockup/screens/07-izbor-na-miasto.jpg`. В менюто е избрана оранжерията, панелите и батериите са достъпни, а лабораторията за животни, вятърната турбина и площадката за совалката са заключени; текстовете са на английски.
 
 ## Сградите в менюто по нива
 
